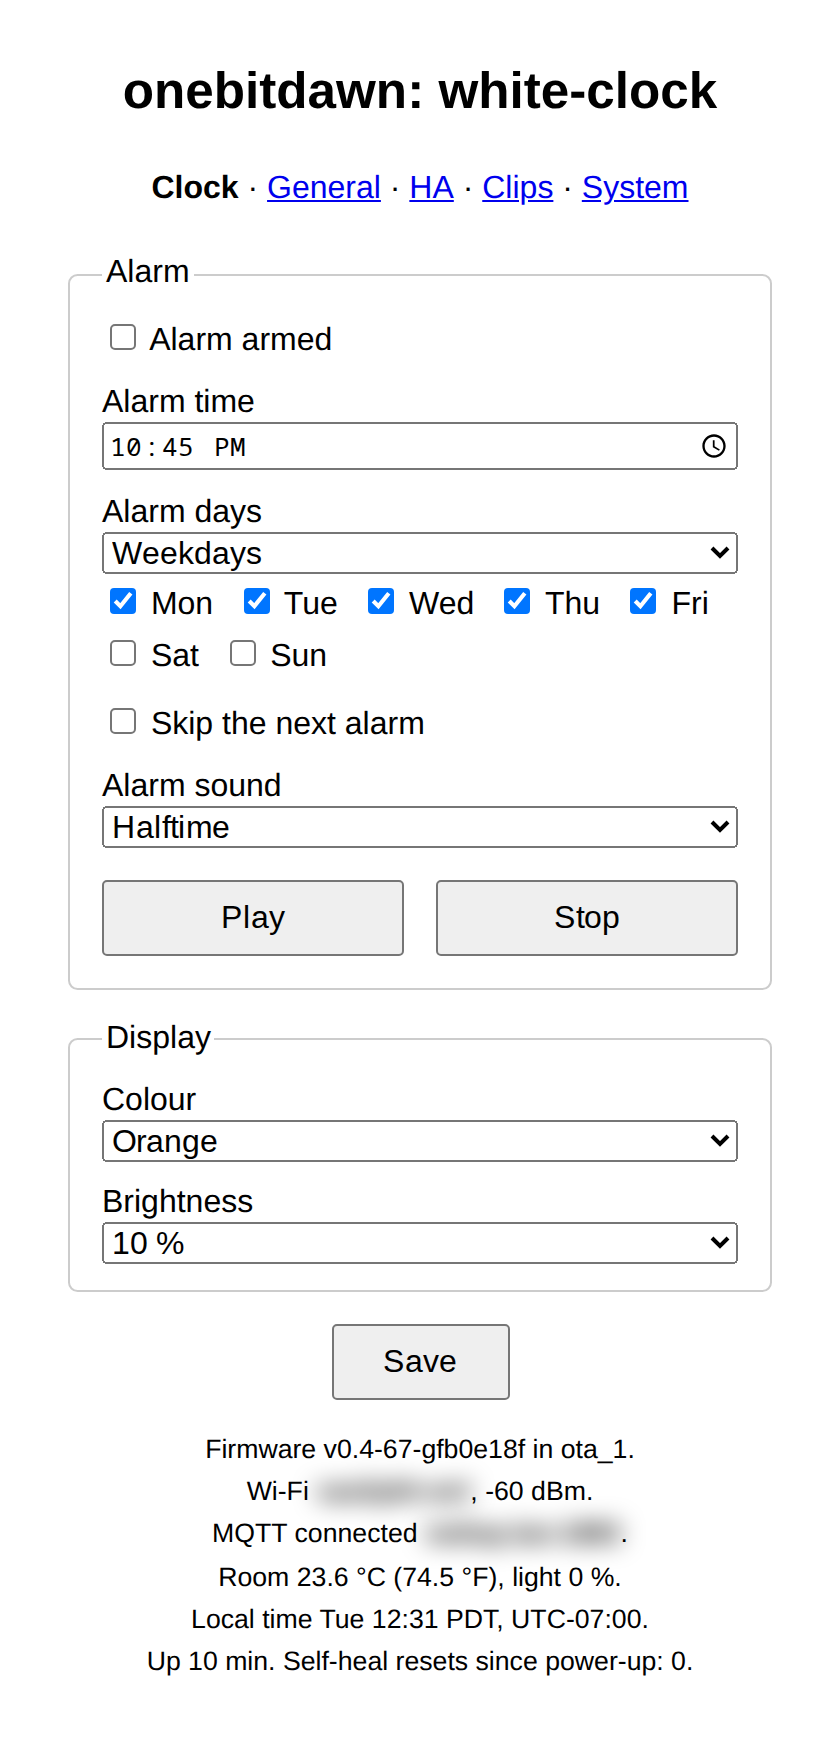
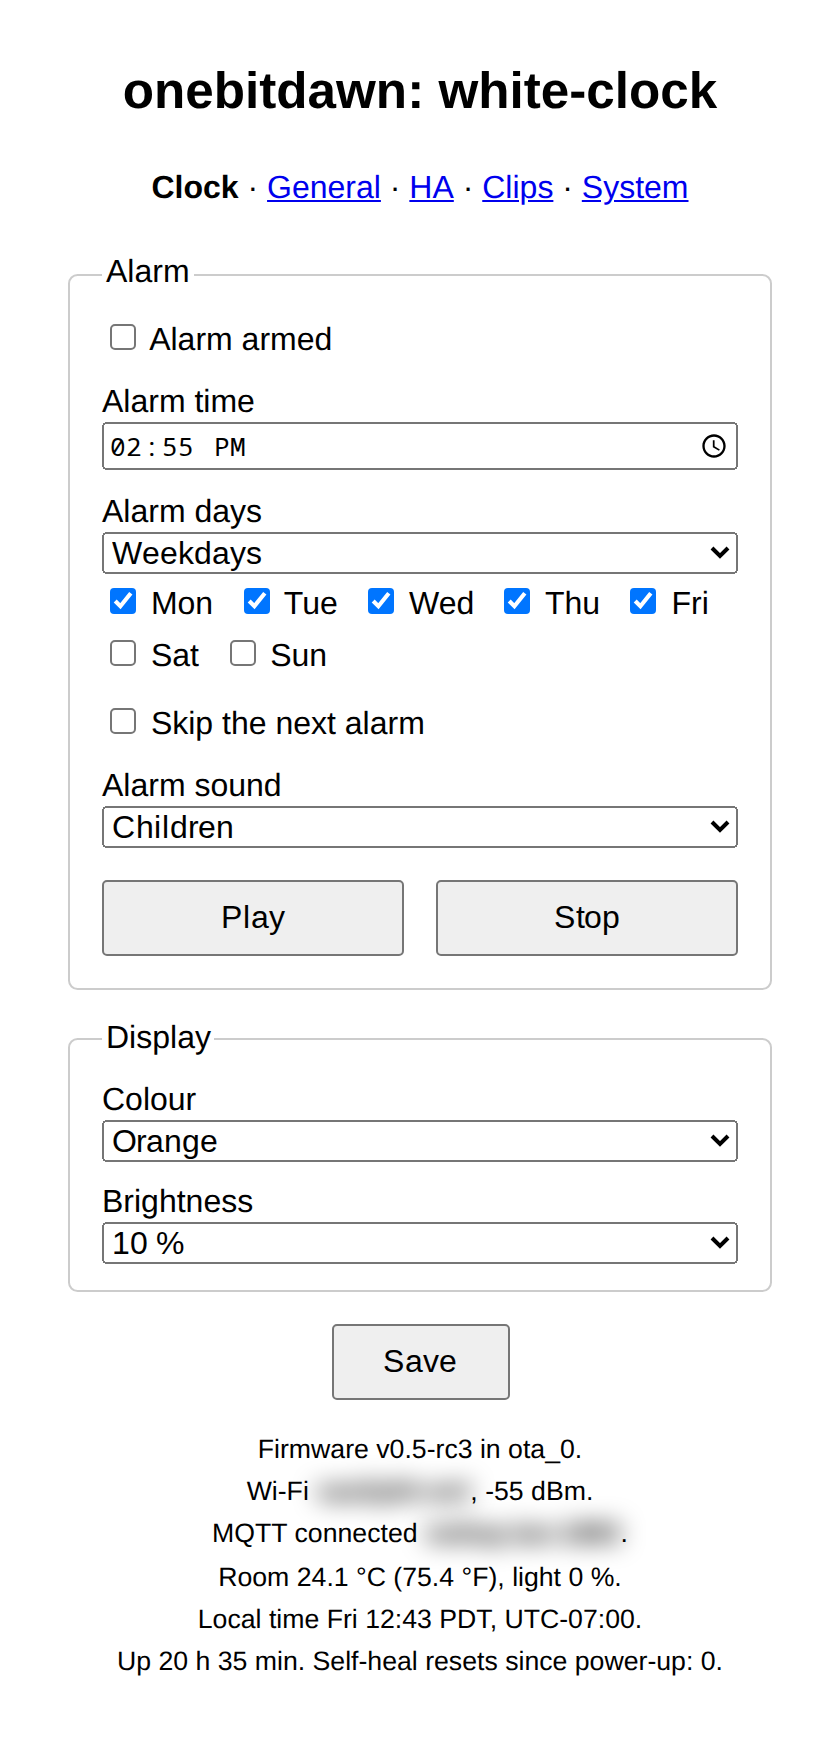
The screenshots are retaken on v0.5-rc3, the broker's user blurred too
From white-clock with headless Chromium as before: 420 px at twice the
scale, the clock page light and dark, the others dark. The network's
name, the broker and now its user are blurred in the page before the
capture. The settings page has the sound output.

diff --git a/PLAN.md b/PLAN.md
@@ -21,6 +21,9 @@ The user's, and what the readiness check of the same day left open.
   `v0.4-67-gfb0e18f`). Three in the README under the feature list,
   all six in the manual beside what they show; the manual said four
   pages and has `/clips` in its list now.
+  Retaken 2026-11-20 from white-clock on `v0.5-rc3` (the user: its
+  pages are master's), the same way, with the broker's user blurred
+  as well; the settings page has the sound output now.
 - [x] A picture of the board with the buzzer mod, beside the README's
   description of it (the user's; a photograph, so the user's to take).
   Two, taken by the user 2026-11-17, in `pics/`: the component side
